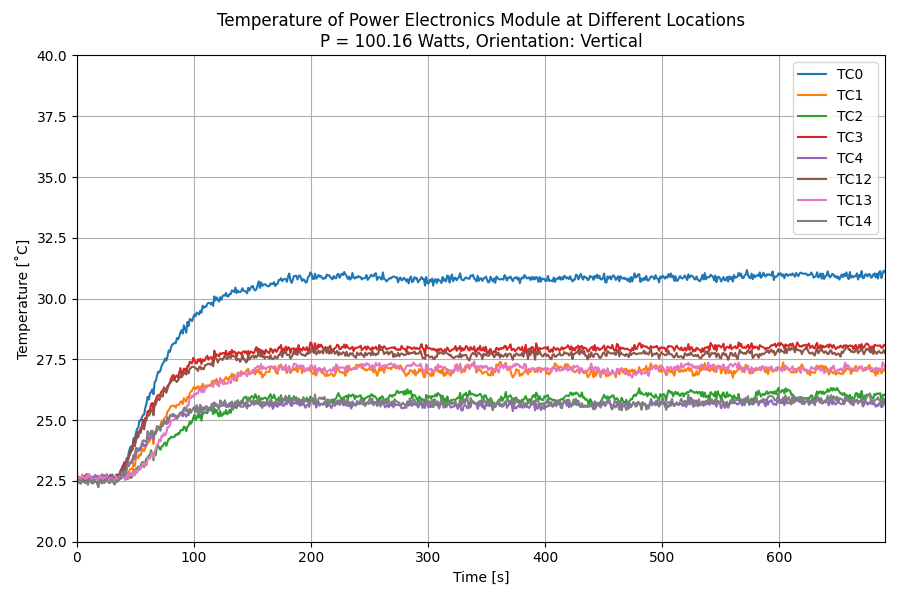
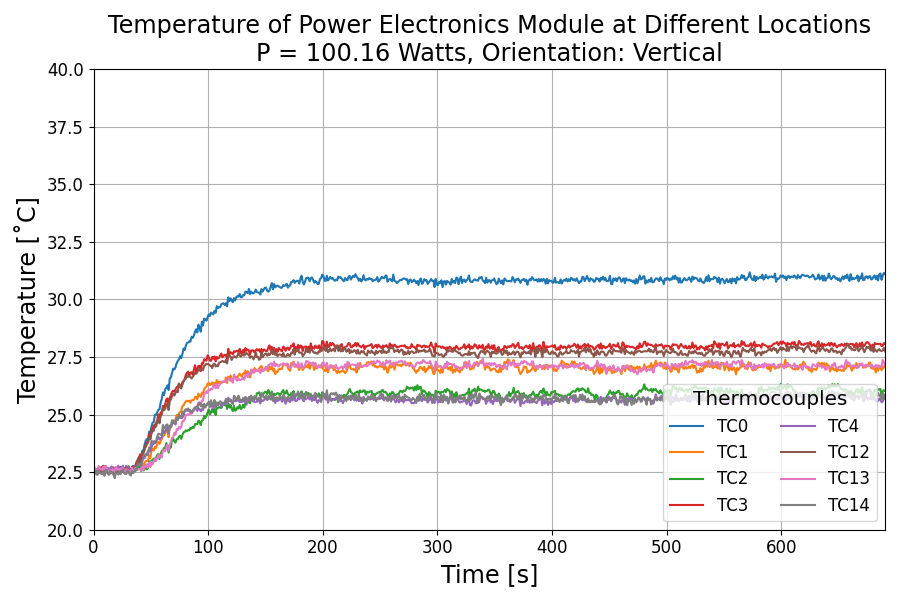
made text in images bigger. Changed average temperature threshold to >200s

diff --git a/graph.py b/graph.py
@@ -20,10 +20,12 @@ def plot_pem(filename):
     output_dir = f"figures/{orientation}"
     os.makedirs(output_dir, exist_ok=True)
 
-    plt.title(f"Temperature of Power Electronics Module at Different Locations\nP = {wattage}, Orientation: {orientation.capitalize()}")
-    plt.ylabel("Temperature [˚C]")
-    plt.xlabel("Time [s]")
-    plt.legend()
+    plt.title(f"Temperature of Power Electronics Module at Different Locations\nP = {wattage}, Orientation: {orientation.capitalize()}", fontsize="xx-large")
+    plt.ylabel("Temperature [˚C]", fontsize="xx-large")
+    plt.xlabel("Time [s]", fontsize="xx-large")
+    plt.xticks(fontsize=12)
+    plt.yticks(fontsize=12)
+    plt.legend(title="Thermocouples", loc="lower right", ncol=2, title_fontsize="x-large", fontsize=12)
     plt.grid(True)
     plt.tight_layout()
 
@@ -46,10 +48,12 @@ def plot_flowports(filename):
     output_dir = f"figures/{orientation}"
     os.makedirs(output_dir, exist_ok=True)
 
-    plt.title(f"Temperature of Flow Inlet and Outlet\nP = {wattage}, Orientation: {orientation.capitalize()}")
-    plt.ylabel("Temperature [˚C]")
-    plt.xlabel("Time [s]")
-    plt.legend()
+    plt.title(f"Temperature of Flow Inlet and Outlet\nP = {wattage}, Orientation: {orientation.capitalize()}", fontsize="xx-large")
+    plt.ylabel("Temperature [˚C]", fontsize="xx-large")
+    plt.xlabel("Time [s]", fontsize="xx-large")
+    plt.xticks(fontsize=12)
+    plt.yticks(fontsize=12)
+    plt.legend(title="Thermocouples", loc="lower right", title_fontsize="x-large", fontsize=12)
     plt.grid(True)
     plt.tight_layout()
 
@@ -82,16 +86,38 @@ def plot_avg_temp_by_power(data_dir):
         time = df.iloc[:, 0]
         temps = df.iloc[:, 1:]
         avg_temp = temps.mean(axis=1)
-        plt.plot(time, avg_temp, label=f"{power} W")
 
+        # Plot main line
+        main_line, = plt.plot(time, avg_temp, label=f"{power} W")
+
+        # Use the same color for additional lines
+        color = main_line.get_color()
+
+        # Mask for time > 200
+        mask_after_200 = time > 200
+        if mask_after_200.any():
+            avg_after_200 = avg_temp[mask_after_200].mean()
+            plt.hlines(avg_after_200, xmin=time.iloc[0], xmax=time.iloc[-1],
+                    colors=color, linestyles='--', 
+                    label=f"Avg: {avg_after_200:.2f}°C")
+
+        # Max temperature line
+        max_temp = avg_temp.max()
+        plt.hlines(max_temp, xmin=time.iloc[0], xmax=time.iloc[-1],
+                colors=color, linestyles=':', 
+                label=f"Max: {max_temp:.2f}°C")
+        
     orientation = "Horizontal" if "horizontal" in data_dir.lower() else "Vertical"
 
     plt.autoscale(enable=True, axis='x', tight=True)
     plt.xlim(left=0)
-    plt.title(f"Average Temperature of PEM Over Time\nOrientation: {orientation}")
-    plt.xlabel("Time [s]")
-    plt.ylabel("Average Temperature [˚C]")
-    plt.legend(title="Power Level")
+    plt.ylim(20, 40)
+    plt.title(f"Average Temperature of PEM Over Time\nOrientation: {orientation}", fontsize="xx-large")
+    plt.xlabel("Time [s]", fontsize="xx-large")
+    plt.ylabel("Average Temperature [˚C]", fontsize="xx-large")
+    plt.xticks(fontsize=12)
+    plt.yticks(fontsize=12)
+    plt.legend(title="Power Level", fontsize=12, loc='upper right', ncol=4, title_fontsize="x-large")
     plt.grid(True)
     plt.tight_layout()
 
@@ -139,7 +165,7 @@ def plot_avg_temp_by_power_all(data_dir):
 
     plt.autoscale(enable=True, axis='x', tight=True)
     plt.xlim(left=0)
-    plt.title("Average Temperature of PEM Over Time\nComparing Orientations")
+    plt.title("Average Temperature of PEM Over Time\nComparing Orientations", fontsize="xx-large")
     plt.xlabel("Time [s]")
     plt.ylabel("Average Temperature [˚C]")
     plt.legend(title="Power Level & Orientation")
